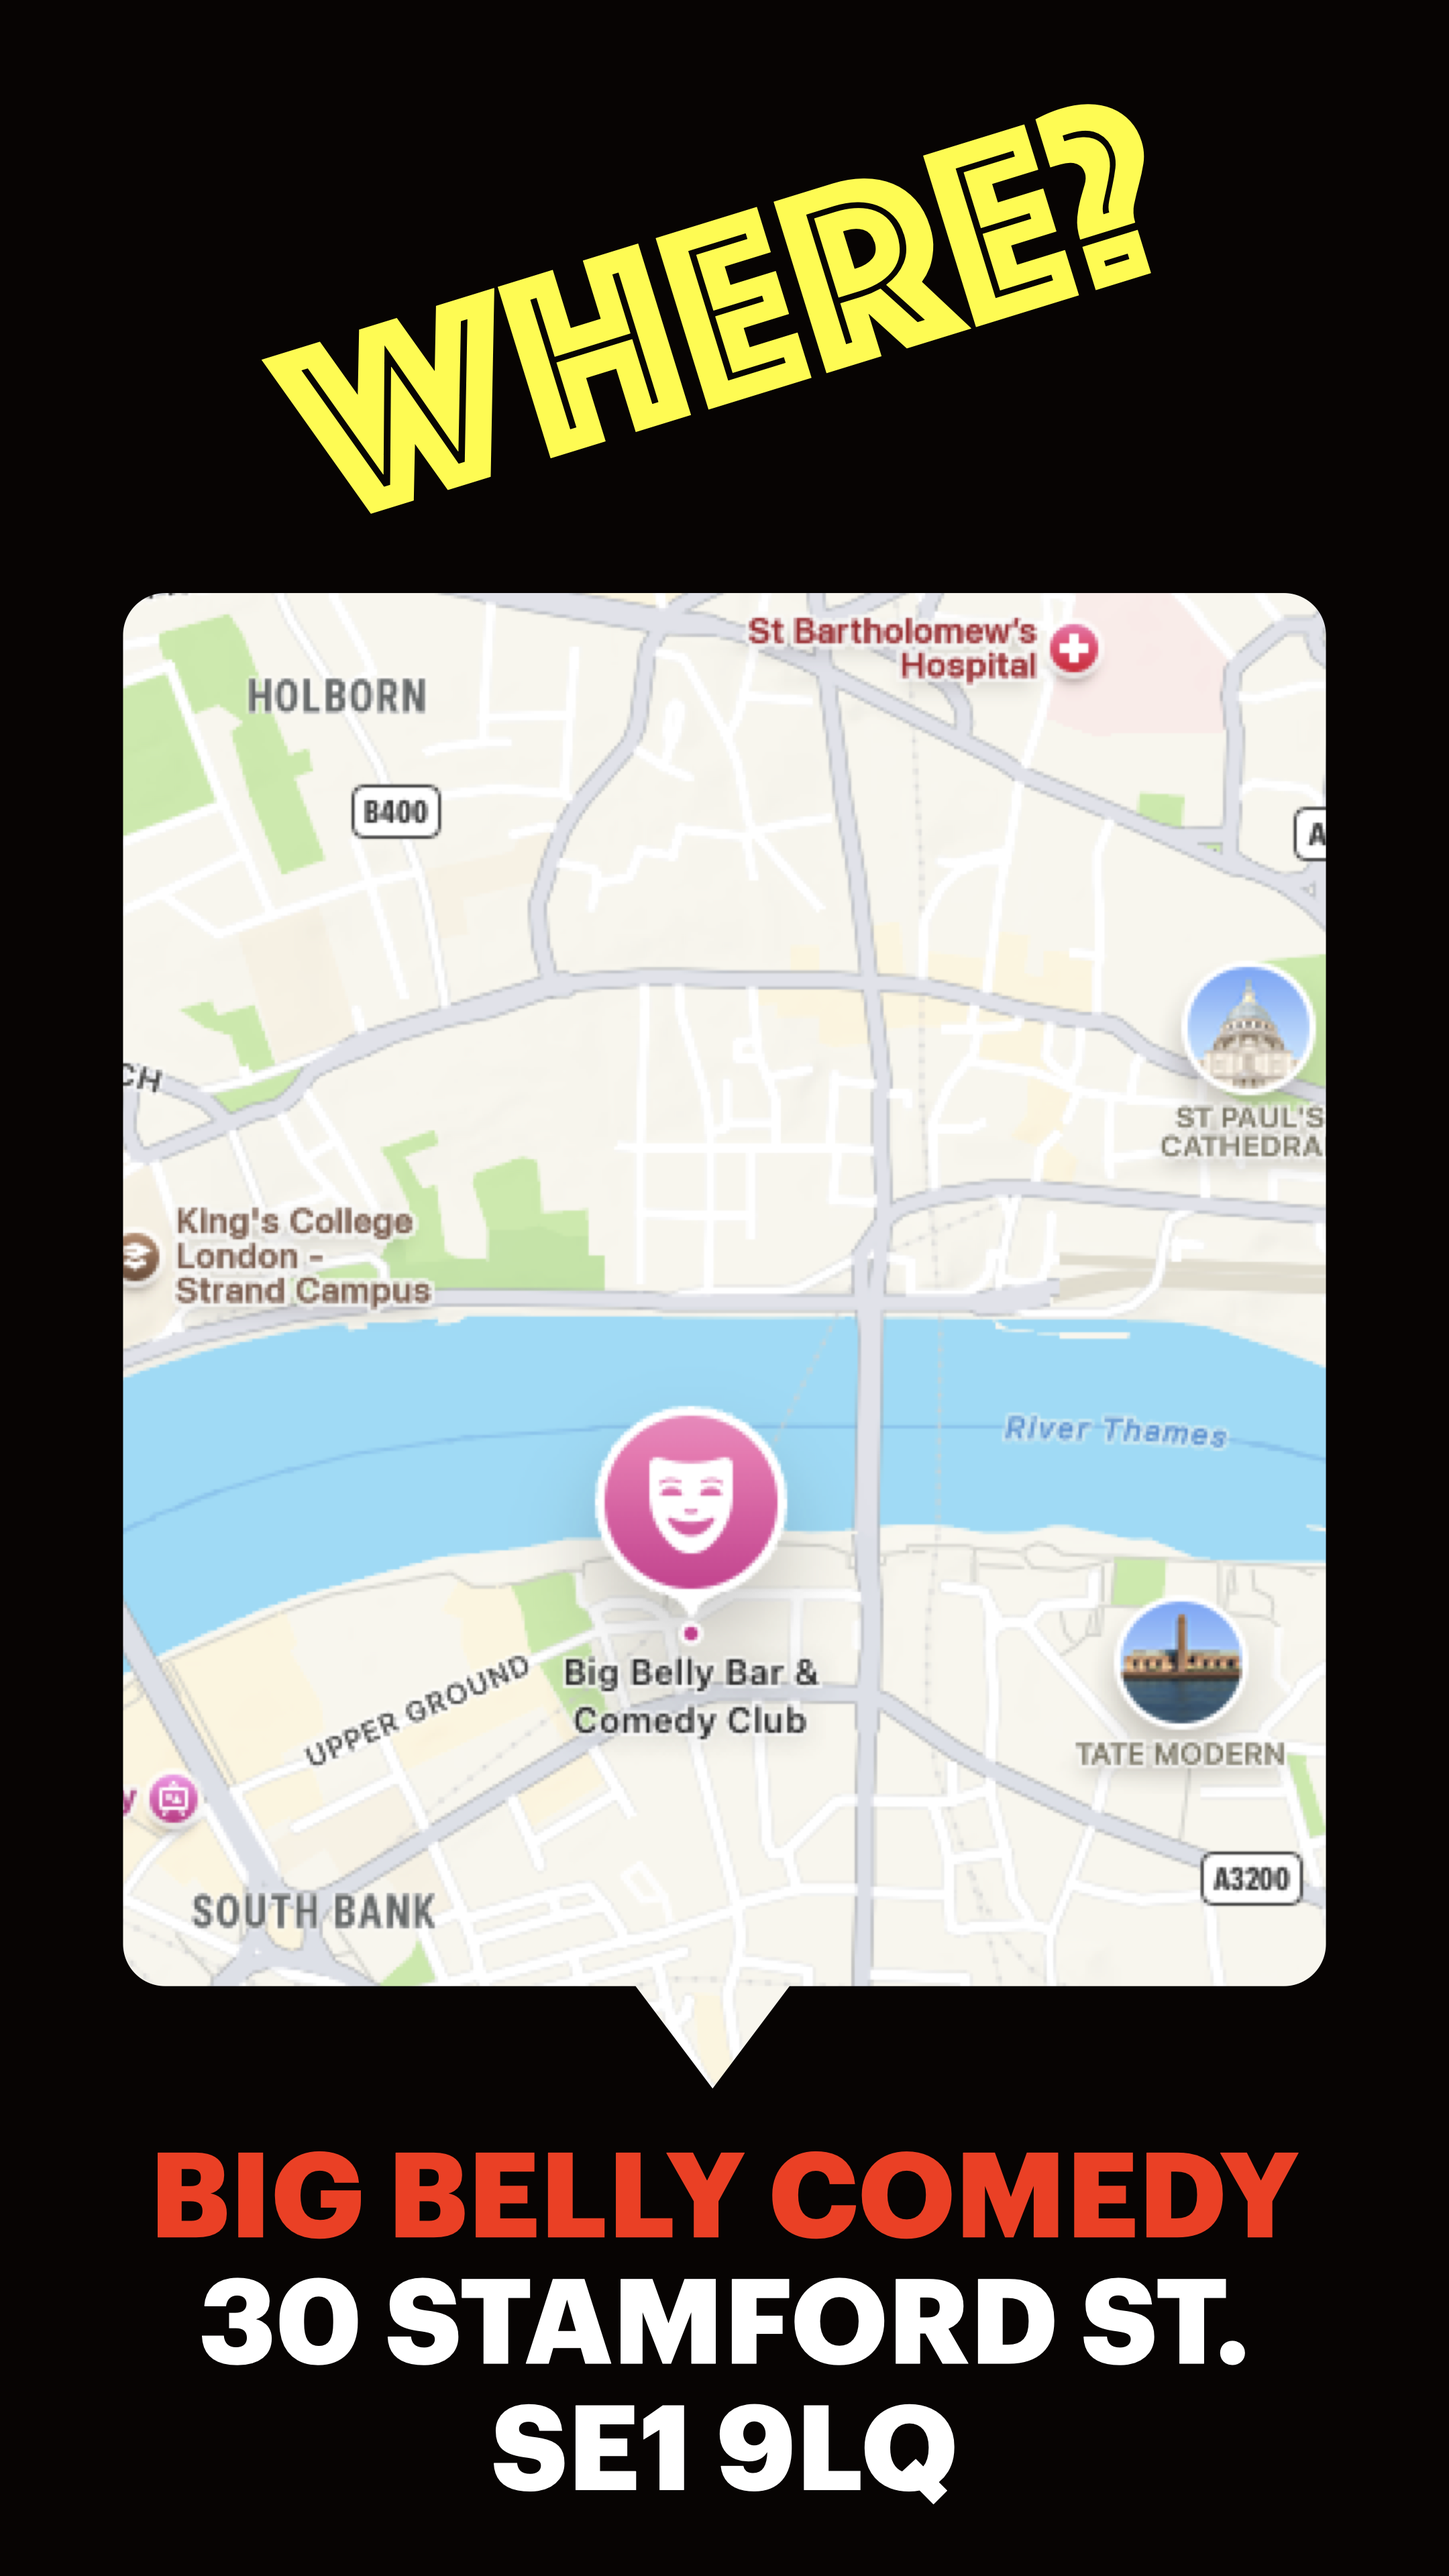
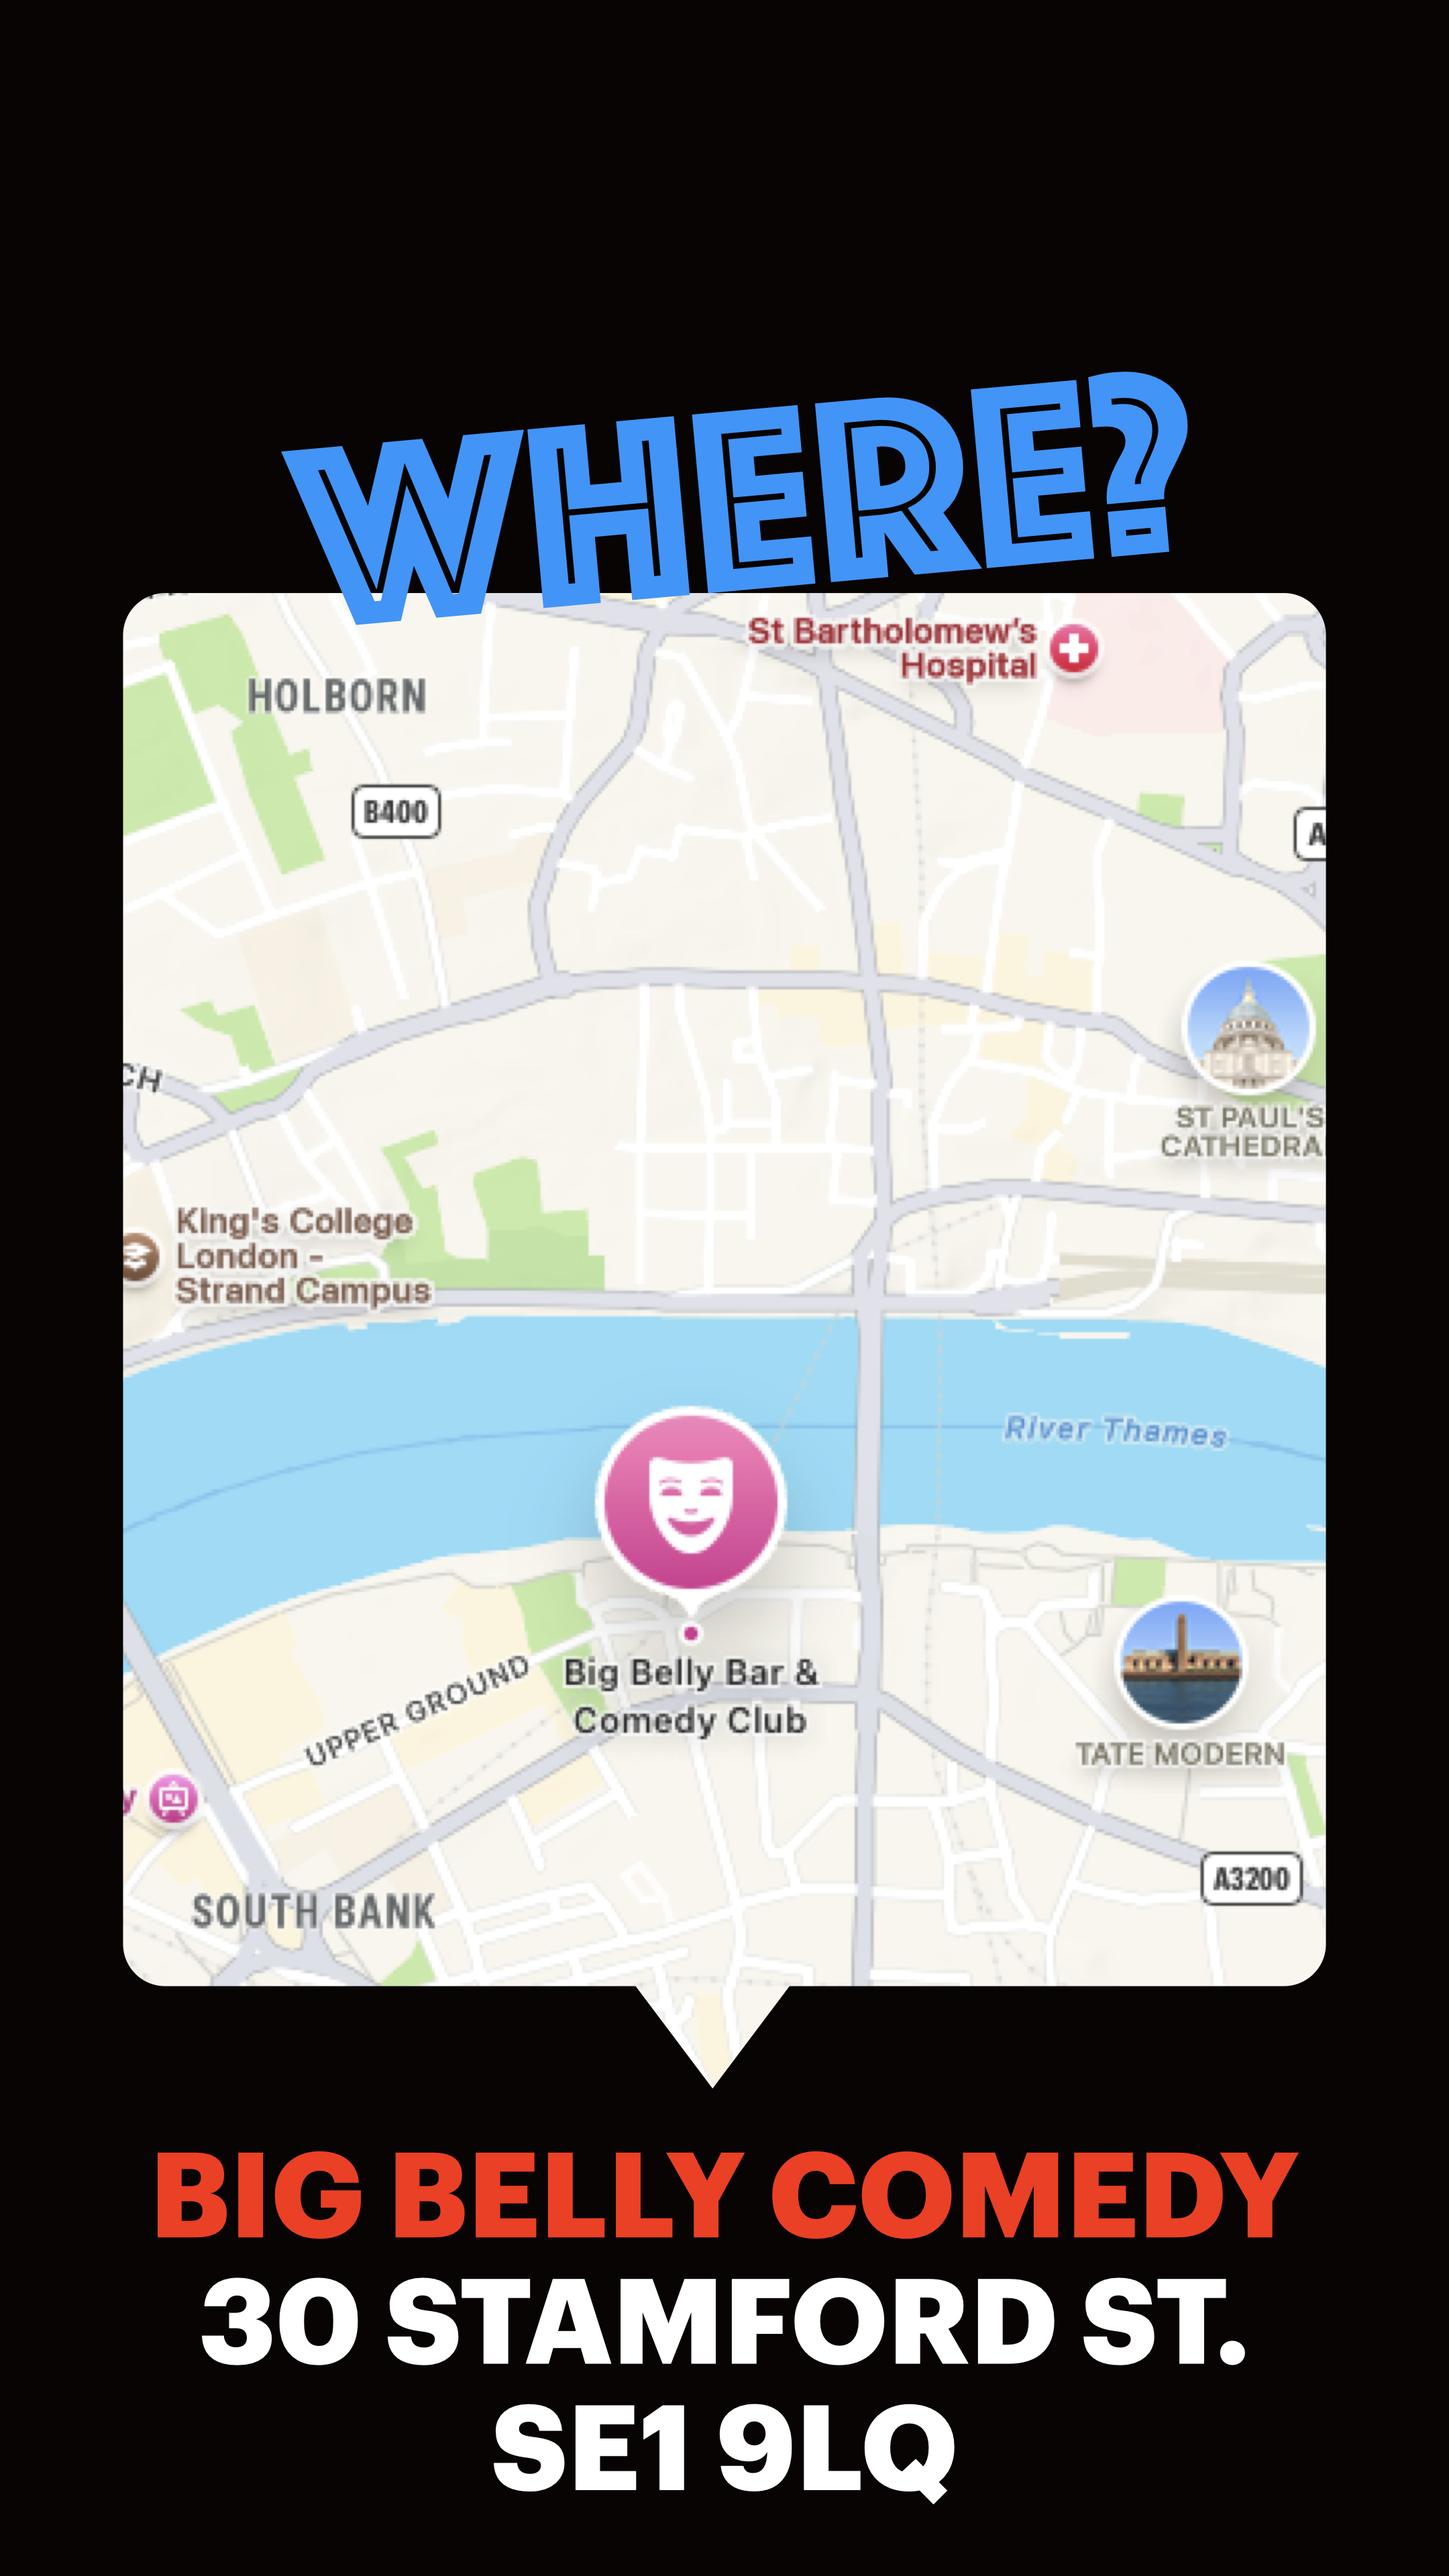
Add files via upload

Changed region(s): [[0.1861, 0.0312, 0.8375, 0.25]]

diff --git a/index.html b/index.html
@@ -38,7 +38,7 @@
   display:block;
   width:100%;
   height:auto;
-  margin:8px 0 0px 0;
+  margin:0px 0 0px 0;
 }
  
 
@@ -118,12 +118,28 @@ img{
        fetchpriority="high">
 </a>
 
-<div style="background:rgb(239,36,7); padding:20px 0px 10px 0;">
+
+  <img class="hero"
+     src="header.png"
+     alt="Too Thirsty Dating Show London"
+     width="2160" height="1000"
+     loading="eager"
+     fetchpriority="high">
+
+
+<div style="background:rgb(239,36,7); padding:0 0 0 0;">
   <video autoplay loop muted playsinline width="100%">
     <source src="too-thirsty-dating-show-london-trailer.mp4" type="video/mp4">
   </video>
 </div>
 
+
+  <img class="hero"
+     src="footer.png"
+     alt="Too Thirsty Dating Show London"
+     width="2160" height="1000"
+     loading="eager"
+     fetchpriority="high">
 
 
 <a href="https://www.tickettailor.com/events/toothirsty" 
